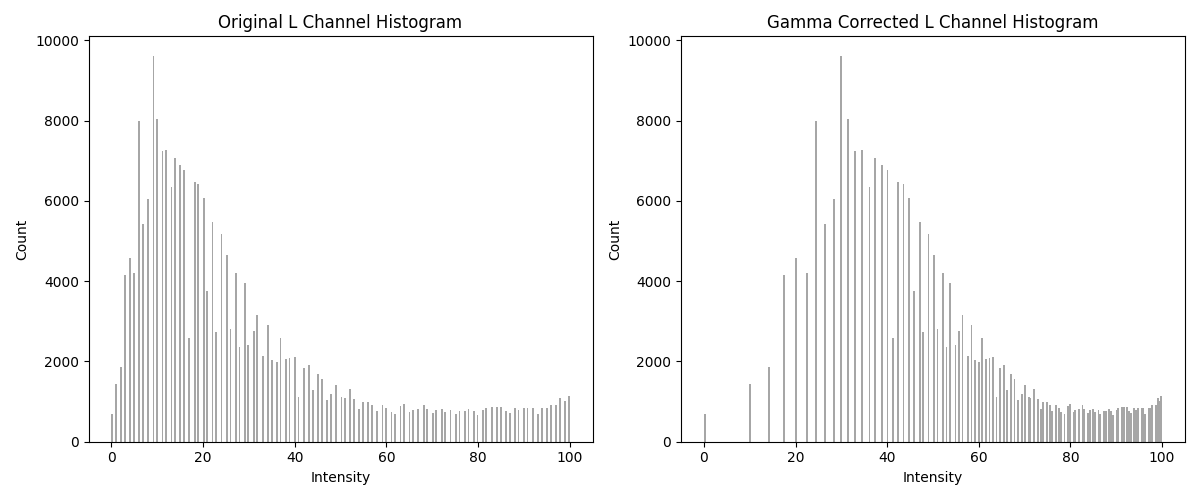
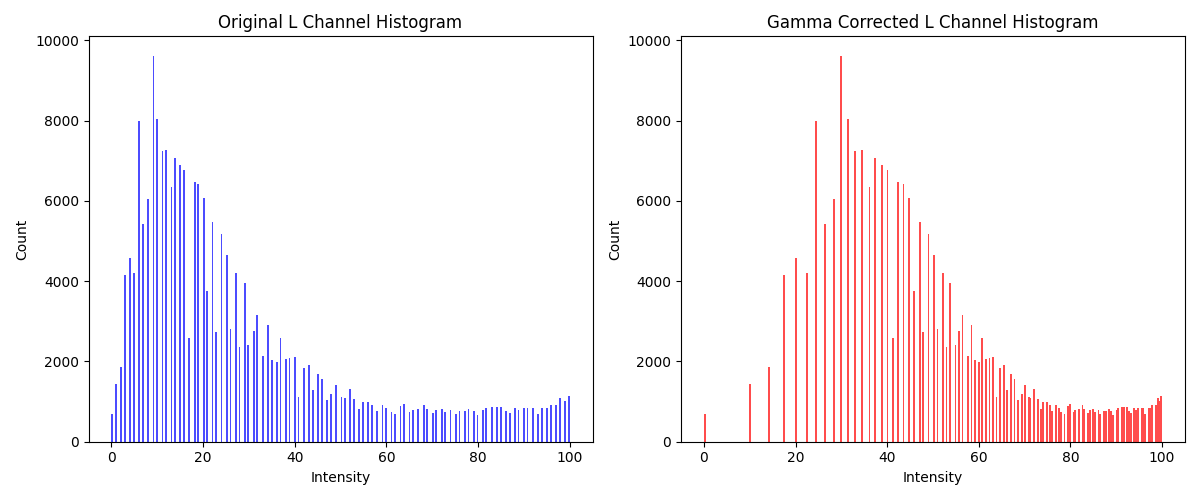
Update histograms to use different colors: blue/red for question 2, blue/orange for question 3

Changed region(s): [[0.6167, 0.24, 0.9867, 0.9], [0.0925, 0.3, 0.4933, 0.9]]

diff --git a/question3.py b/question3.py
@@ -12,35 +12,25 @@ def save_image(image: np.ndarray, path: Path) -> None:
     Image.fromarray(image_uint8, mode="L").save(path)
 
 def histogram_equalization(image: np.ndarray) -> np.ndarray:
-    # image is 0-1
-    # Convert to 0-255 for processing
     img_255 = (image * 255).astype(np.uint8)
-    
-    # Compute histogram
     hist, bins = np.histogram(img_255.flatten(), bins=256, range=[0, 256])
-    
-    # Compute CDF
     cdf = hist.cumsum()
     cdf_normalized = cdf / cdf[-1]  # normalize to 0-1
-    
-    # Equalize
     equalized = np.interp(img_255.flatten(), bins[:-1], cdf_normalized * 255)
     equalized = equalized.reshape(img_255.shape).astype(np.uint8)
-    
-    # Back to 0-1
     return equalized.astype(np.float32) / 255.0
 
 def plot_histograms(original, equalized):
     plt.figure(figsize=(12, 5))
     
     plt.subplot(1, 2, 1)
-    plt.hist(original.ravel(), bins=256, range=(0, 1), color='gray', alpha=0.7)
+    plt.hist(original.ravel(), bins=256, range=(0, 1), color='blue', alpha=0.7)
     plt.title('Original Histogram')
     plt.xlabel('Intensity')
     plt.ylabel('Frequency')
     
     plt.subplot(1, 2, 2)
-    plt.hist(equalized.ravel(), bins=256, range=(0, 1), color='gray', alpha=0.7)
+    plt.hist(equalized.ravel(), bins=256, range=(0, 1), color='orange', alpha=0.7)
     plt.title('Equalized Histogram')
     plt.xlabel('Intensity')
     plt.ylabel('Frequency')

diff --git a/question2.py b/question2.py
@@ -23,13 +23,13 @@ def plot_histograms(original_L, corrected_L, title1, title2):
     plt.figure(figsize=(12, 5))
     
     plt.subplot(1, 2, 1)
-    plt.hist(original_L.ravel(), bins=256, range=(0, 100), color='gray', alpha=0.7)
+    plt.hist(original_L.ravel(), bins=256, range=(0, 100), color='blue', alpha=0.7)
     plt.title(title1)
     plt.xlabel('Intensity')
     plt.ylabel('Count')
     
     plt.subplot(1, 2, 2)
-    plt.hist(corrected_L.ravel(), bins=256, range=(0, 100), color='gray', alpha=0.7)
+    plt.hist(corrected_L.ravel(), bins=256, range=(0, 100), color='red', alpha=0.7)
     plt.title(title2)
     plt.xlabel('Intensity')
     plt.ylabel('Count')
